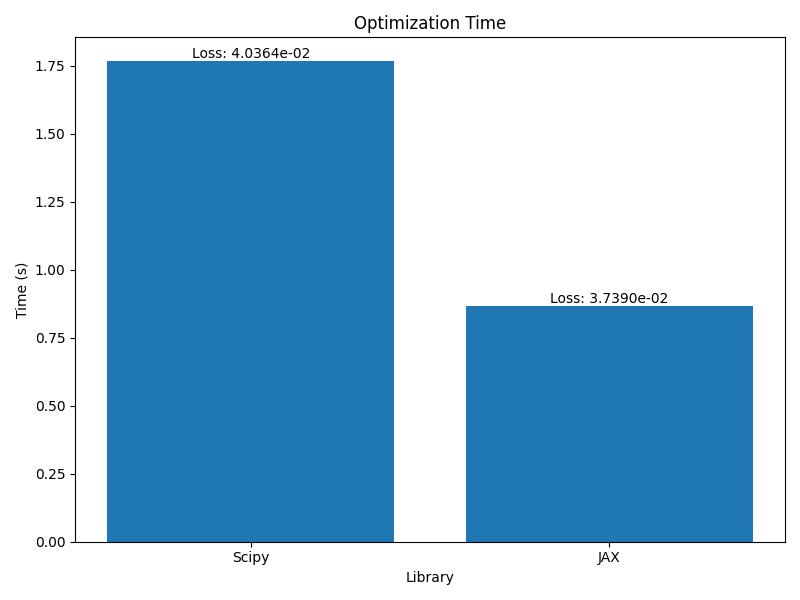
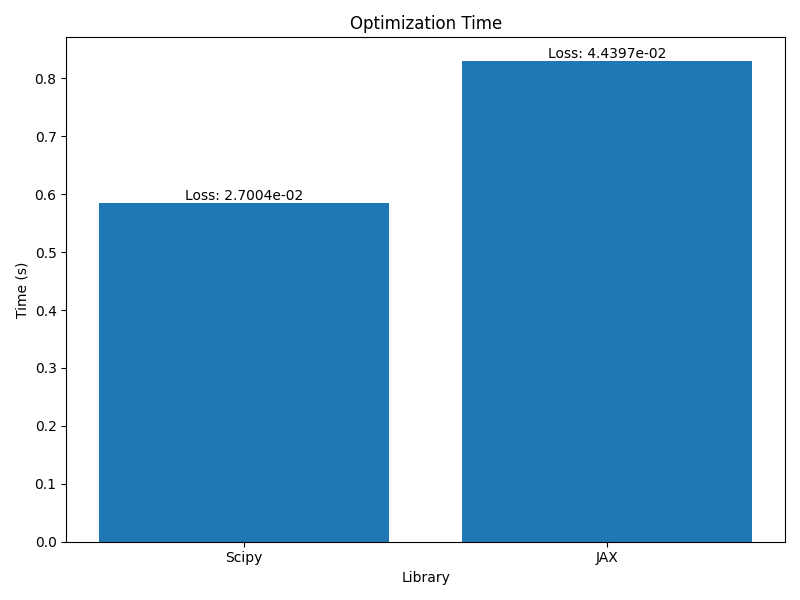
comparison between guiding-center and lorenz

diff --git a/params_and_model.py b/params_and_model.py
@@ -12,10 +12,10 @@ if model == 'lorenz':
     initial_conditions = [5., 5., 5.]
     a_initial = [10., 20., 8./3.]  # sigma, rho, beta
     tmin = 0
-    tmax = 13
-    nt_per_time_unit = 80
-    n_steps_to_compute_loss = 200
-    x_target = 3.5
+    tmax = 12
+    nt_per_time_unit = 120
+    n_steps_to_compute_loss = 70
+    x_target = 0.5
     x_to_optimize = 0 # optimize x0
     max_nfev_optimization = 20
     learning_rate_torch = 1.1
@@ -37,8 +37,8 @@ elif model == 'guiding-center':
     learning_rate_torch = 0.1
     learning_rate_jax = 0.2
 
-delta_jacobian_scipy = 1e-5
-tol_optimization = 1e-3
+delta_jacobian_scipy = 1e-7
+tol_optimization = 1e-2
 use_scipy_jax = False
 use_scipy_torch = False
 step_optimization_verbose = True
@@ -149,6 +149,13 @@ if model == 'guiding-center':
             return torch.stack([dxdt, dydt, dzdt, dvdt], dim=-1)
 elif model == 'lorenz':
     def system(w, t, a):
+        x, y, z = w
+        dxdt = a[0] * (y - x)
+        dydt = x * (a[1] - z) - y
+        dzdt = x * y - a[2] * z
+        return [dxdt, dydt, dzdt]
+    
+    def system_jax(w, t, a):
         x, y, z = w
         dxdt = a[0] * (y - x)
         dydt = x * (a[1] - z) - y

diff --git a/main_odes.py b/main_odes.py
@@ -7,9 +7,11 @@ from solver import solve_with_scipy, solve_with_pytorch, solve_with_jax
 from jacobi import compute_jacobian_scipy, compute_jacobian_torch, compute_jacobian_jax
 from differences import compute_diff
 from params_and_model import (
-    initial_conditions, tmin, tmax, nt, a_initial, model, iota, Lambda,
-    solver_models, variables, label_styles, B
+    tmin, tmax, nt, a_initial, model,
+    solver_models, variables, label_styles
 )
+if model == 'guiding-center':
+    from params_and_model import B, Lambda
 from jax.config import config
 config.update("jax_enable_x64", True)
 

diff --git a/main_diffopt.py b/main_diffopt.py
@@ -59,7 +59,7 @@ def main(results_path='results'):
         for j, model in enumerate(selected_solver_models):
             initial_solutions_val = initial_solutions[j].detach().numpy() if model == 'PyTorch' else initial_solutions[j]
             optimized_solutions_val = optimized_solutions[j].detach().numpy() if model == 'PyTorch' else optimized_solutions[j]
-            if model_equations == 'Lorenz':
+            if model_equations == 'lorenz':
                 i_max = 3
             elif model_equations == 'guiding-center':
                 i_max = 4
